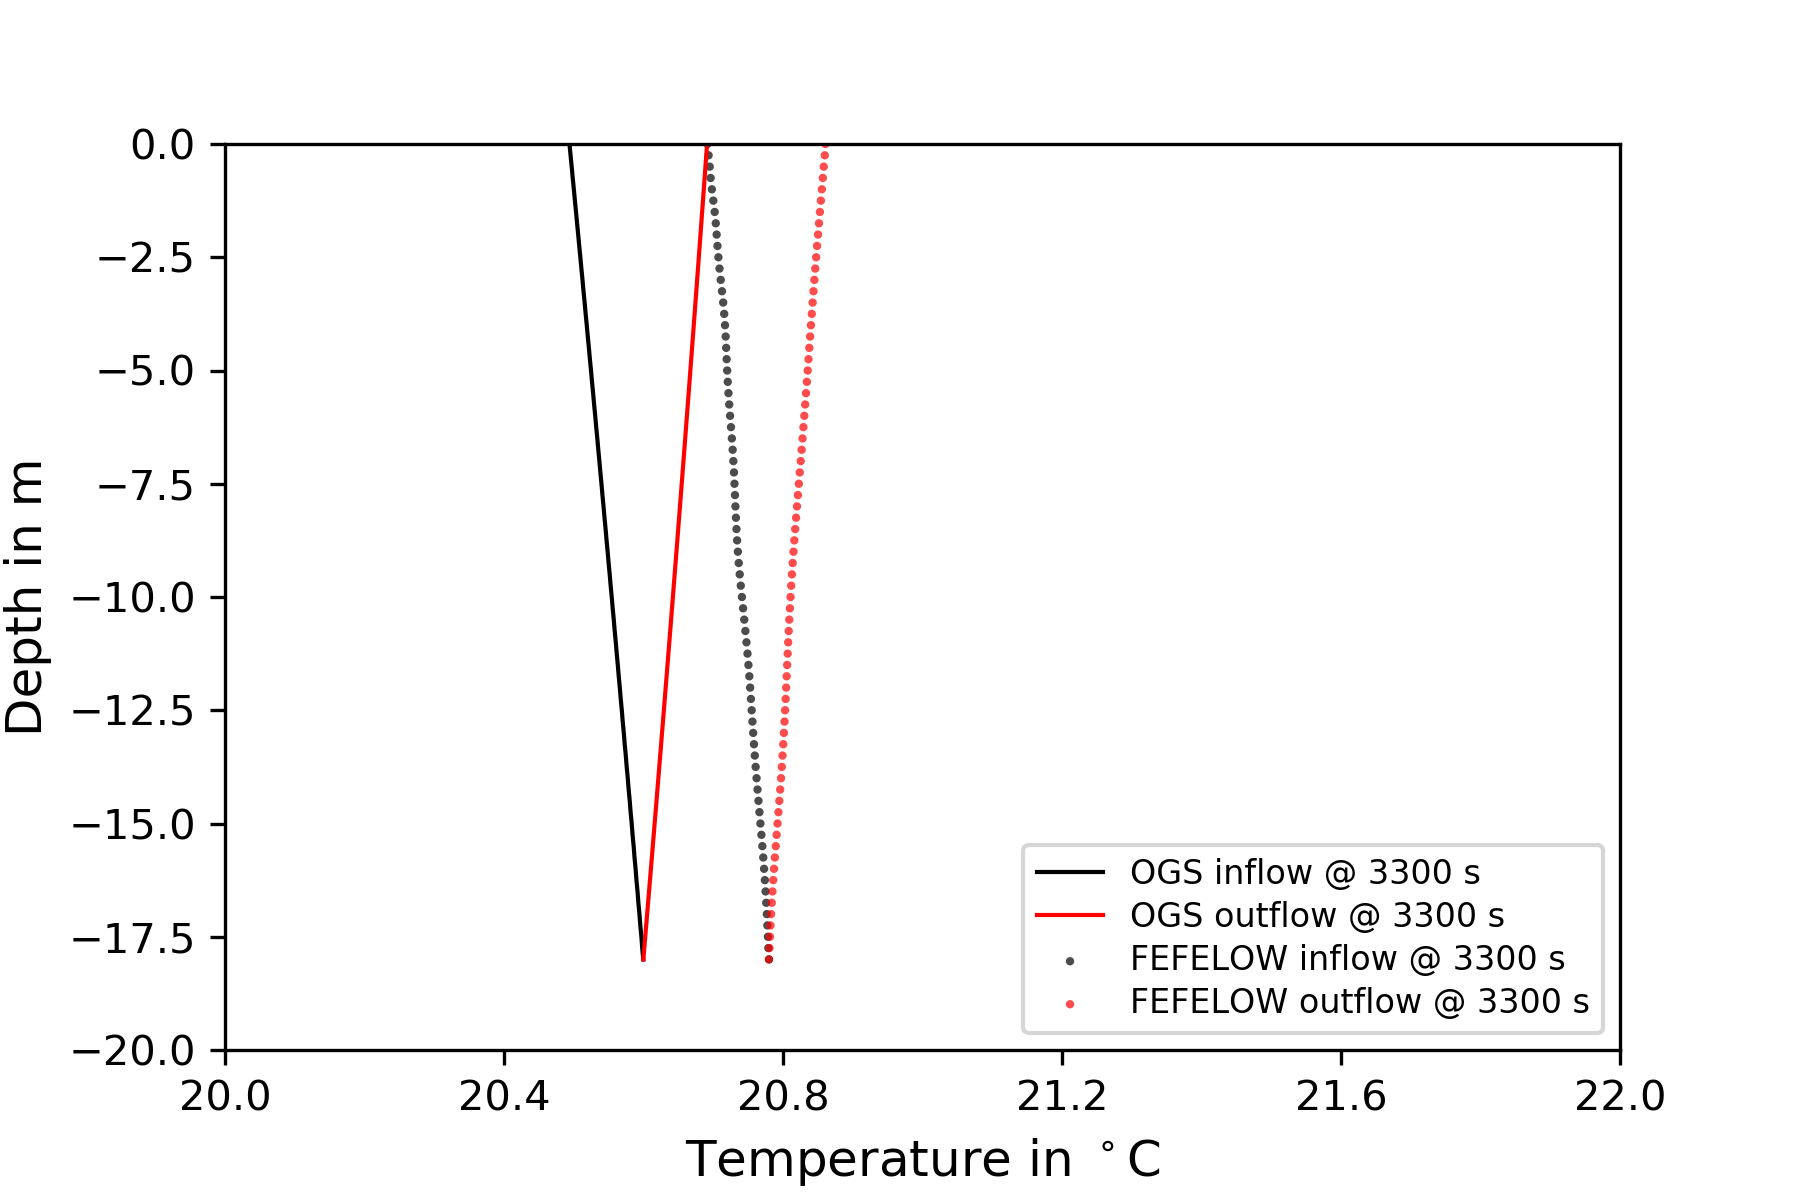
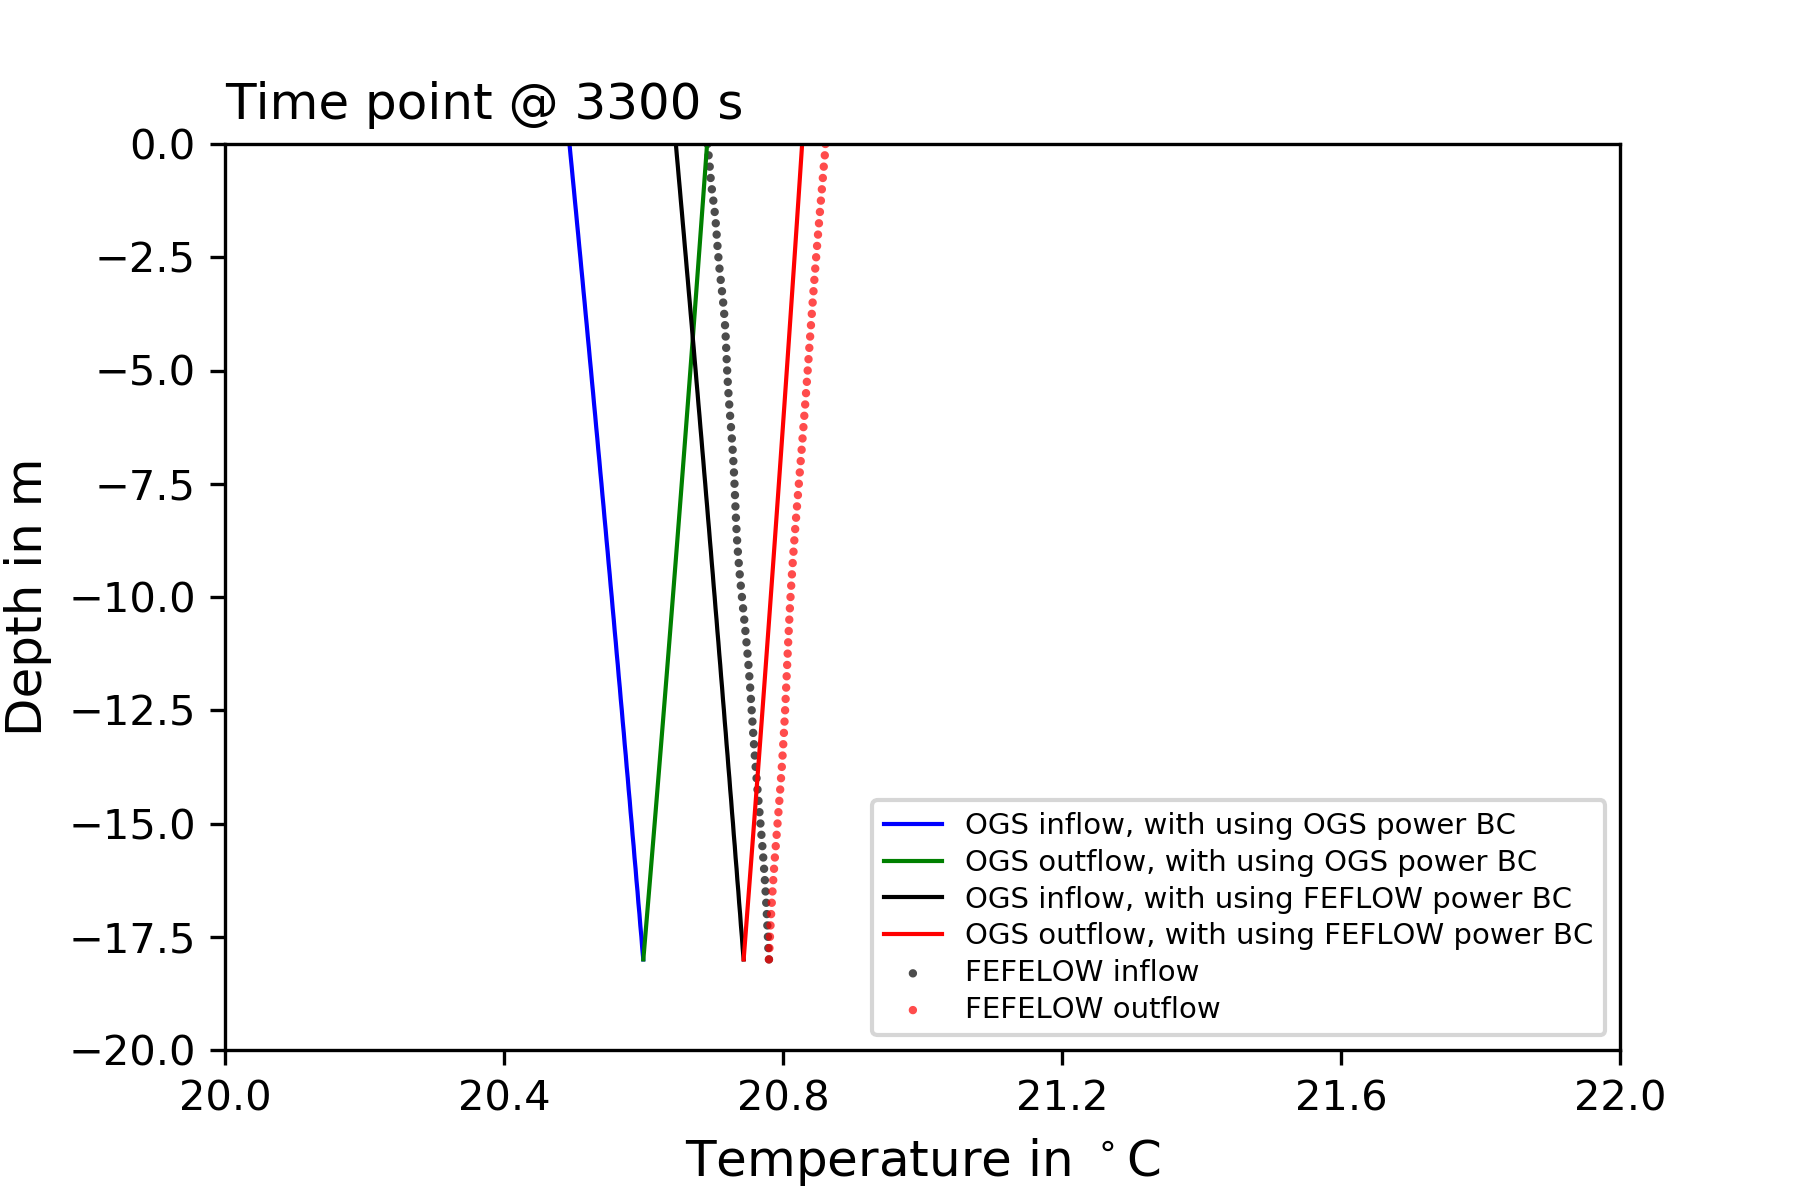
[BHE2U/docu] update the results figure for model using power boundary condition

diff --git a/web/content/docs/benchmarks/heat-transport-bhe/3D_2U_BHE.md b/web/content/docs/benchmarks/heat-transport-bhe/3D_2U_BHE.md
@@ -66,17 +66,18 @@ The comparison figures demonstrate that the OGS numerical results and FEFLOW res
 
 Figure 2: Comparison of vertical temperature distribution from scenario by adopting the fixed inflow boundary condition
 
-Figure 3 shows the the vertical distributed temperature of circulating fluid after operation for 3300 s by adopting the power boundary condition in OGS and FEFLOW models.
-A 0.18 $^{\circ}$C difference is found between the averaged vertical temperature from the two models.
+Figure 3 shows the vertical distributed temperature of circulating fluid after operation for 3300 s by adopting different power boundary conditions in OGS and FEFLOW models.
+Compared to the resutls computed from the OGS model with using a fixed power boundary condtion (illustrated as the blue and green line), A 0.18 $^{\circ}$C difference is found for the averaged vertical temperature from the FEFLOW model (illustrated as the dotted line).
 The reason to the results difference is due to the different power boundary condition type adopted in the two software.
 In FEFLOW the power boundary condtion is based on the outlet temperature calculated from the last time step (non-iterative).
 Compared to it, the default power boundary condition adopted in the OGS `Heat_Transport_BHE` process is based on the outlet temperature calculated from the current time step (with-iterative).
 Besides, by setting python bindings, the current OGS `Heat_Transport_BHE` process is capable to adopt the power boundary condition type used in the FEFLOW software.
-In this way, the computed vertical distributed circulating fluid temperature difference between the OGS and FEFLOW models is becoming much closer to each other.
+In this way, the computed vertical distributed circulating fluid temperature is updated to the black and red solid line illustrated in the figure 3.
+It shows that in this case, the difference between the OGS and FEFLOW models is becoming much closer to each other, which is about 0.037 $^{\circ}$C.
 
 {{< img src="../3D_2U_BHE_figures/vertical_temperature_distribution_powerBC.png" width="200">}}
 
-Figure 3: Comparison of vertical temperature distribution from scenario by adopting the power boundary condition
+Figure 3: Comparison of vertical temperature distribution from scenarios by adopting the power boundary conditions
 
 ## References
 
